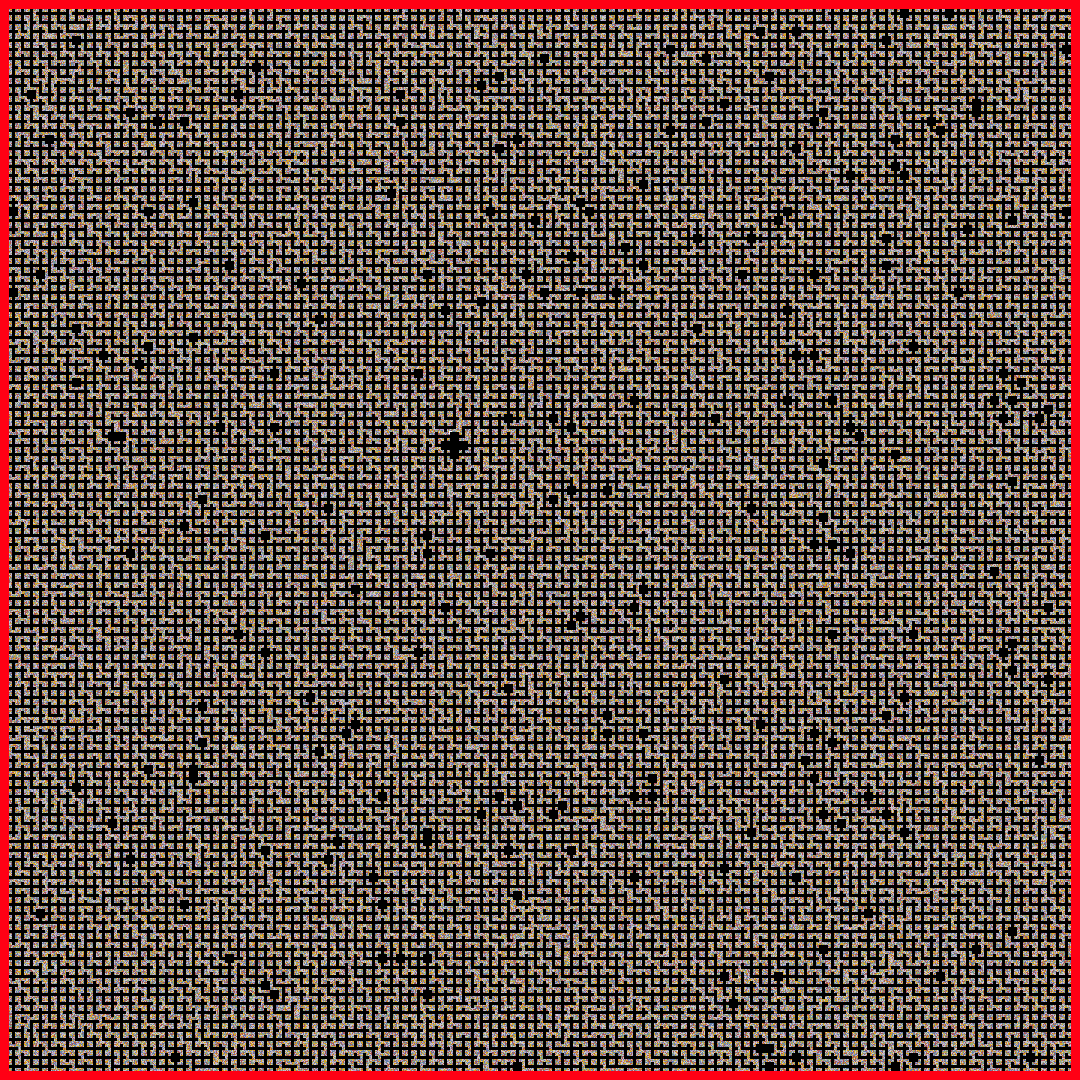
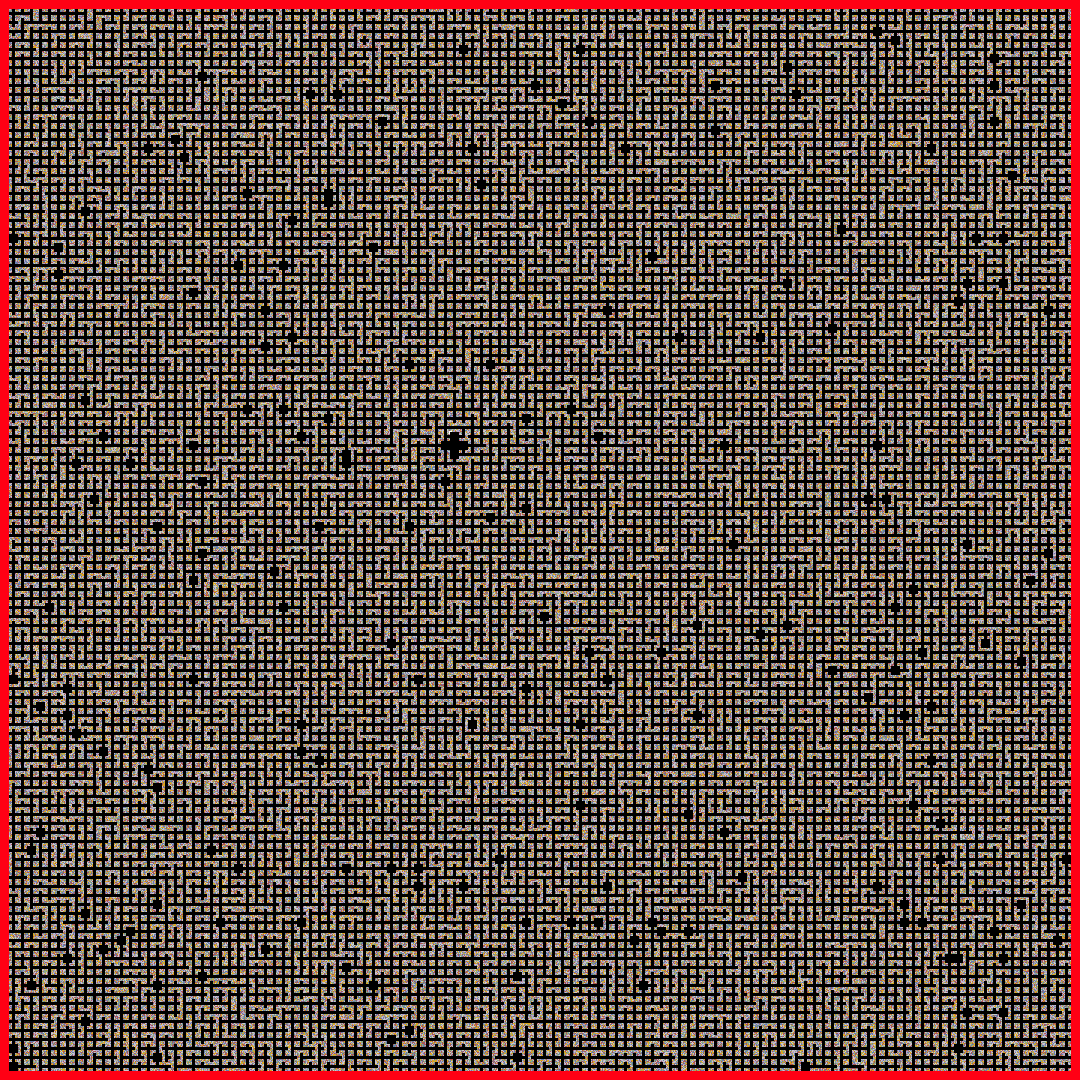
World_gen beetje aanpassen

diff --git a/worlds.py b/worlds.py
@@ -206,28 +206,31 @@ def world_generation(openingen=list):
         kaart[1, 5] = -1
         kaart[3, 7] = -1"""
     if len(openingen) < 3:
-        extra_openingen = randint(0, 3 - len(openingen))  # Extra openingen
-        if extra_openingen == 0 and len(openingen) <= 1:
-            extra_openingen = randint(1, 3)
+        extra_openingen = 1 + randint(0, 1)
+        if len(openingen) < 1:
+            extra_openingen += 2
+        elif len(openingen) < 2:
+            extra_openingen += 1
+        if len(openingen) + extra_openingen == 3 and randint(0, 12) == 0:
+            extra_openingen += 1
         for i in range(extra_openingen):
-            loops = 0
-            while loops < 6:
-                loops += 1
+            while True:
                 opening = randint(1, 4)
                 if opening not in openingen:
                     openingen.append(opening)
-                    continue
+                    break
     elif len(openingen) == 3:
         openingen.pop(randint(0, 2))
-        if randint(0, 10) == 0:
+        if randint(0, 15) == 0:
             openingen.pop(randint(0, 1))
             if randint(0, 20) == 0:
                 openingen.pop(0)
     else:
+        print(openingen)
         openingen.pop(randint(0, 3))
-        if randint(0, 2) == 0:
+        if randint(0, 5) == 0:
             openingen.pop(randint(0, 2))
-            if randint(0, 6) == 6:
+            if randint(0, 15) == 6:
                 openingen.pop(randint(0, 1))
     for i in range(1, 5):
         if i not in openingen:
@@ -322,7 +325,7 @@ class Map():
         kaart = np.zeros((9, 9), dtype='int32')
         kaart[:, 4] = -2
         kaart[4, :] = -2
-        intiele_tile = Tile((kaart, [1]))
+        intiele_tile = Tile((kaart, [1, 2, 3, 4]))
         tile_2 = Tile((kaart, [1, 2, 3, 4]))
         tile_3 = Tile((kaart, [1, 2, 3, 4]))
         self.tile_map[48, 50] = tile_3

diff --git a/IB2.py b/IB2.py
@@ -333,8 +333,8 @@ def verwerk_input(delta, events=0):
                     if game_over_index == 2 and key == sdl2.SDLK_SPACE:
                         moet_afsluiten = True
                 else:
-                    if key == sdl2.SDLK_SPACE:
-                        if not speler.doos_vast and not speler.in_auto:
+                    if key == sdl2.SDLK_SPACE and not speler.in_auto:
+                        if not speler.doos_vast:
                             if pakjesx - 1 < speler.p_x < pakjesx + 1 and pakjesy - 1 < speler.p_y < pakjesy + 1:
                                 speler.doos_vast = True
                                 continue
@@ -414,12 +414,12 @@ def verwerk_input(delta, events=0):
             # X-as
             draai = event.motion.xrel
             if speler.in_auto:
-                speler.sideways_move(1, math.pi / 40 * draai * move_speed, world_map)
+                speler.sideways_move(1, math.pi / 10 * draai * move_speed, world_map)
             else:
-                speler.draaien(-math.pi / 400 * draai * move_speed)
+                speler.draaien(-math.pi / 100 * draai * move_speed)
                 beweging = event.motion.yrel
 
-                speler.move(1, beweging / 100 * move_speed, world_map)
+                speler.move(1, beweging / 20 * move_speed, world_map)
             continue
 
     # Polling-gebaseerde input. Dit gebruiken we bij voorkeur om bv het ingedrukt
